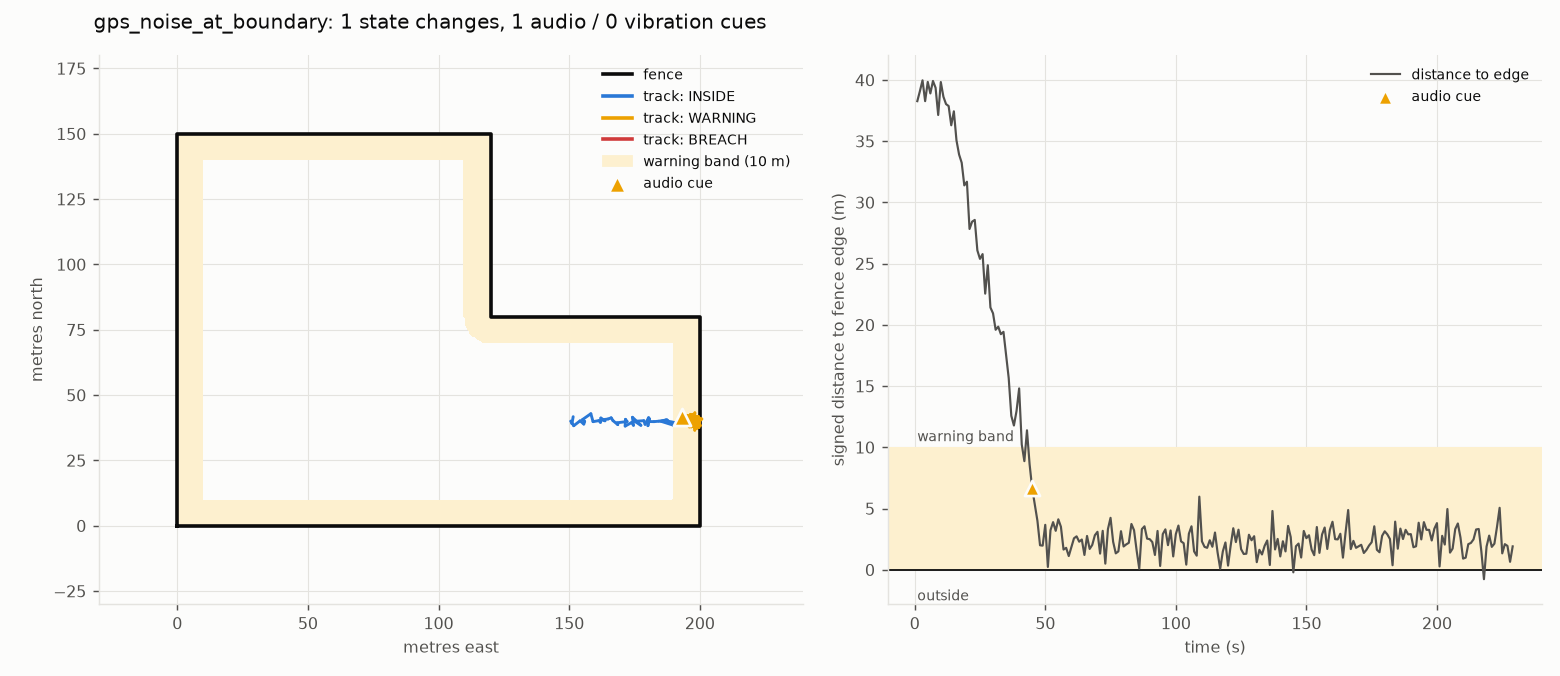
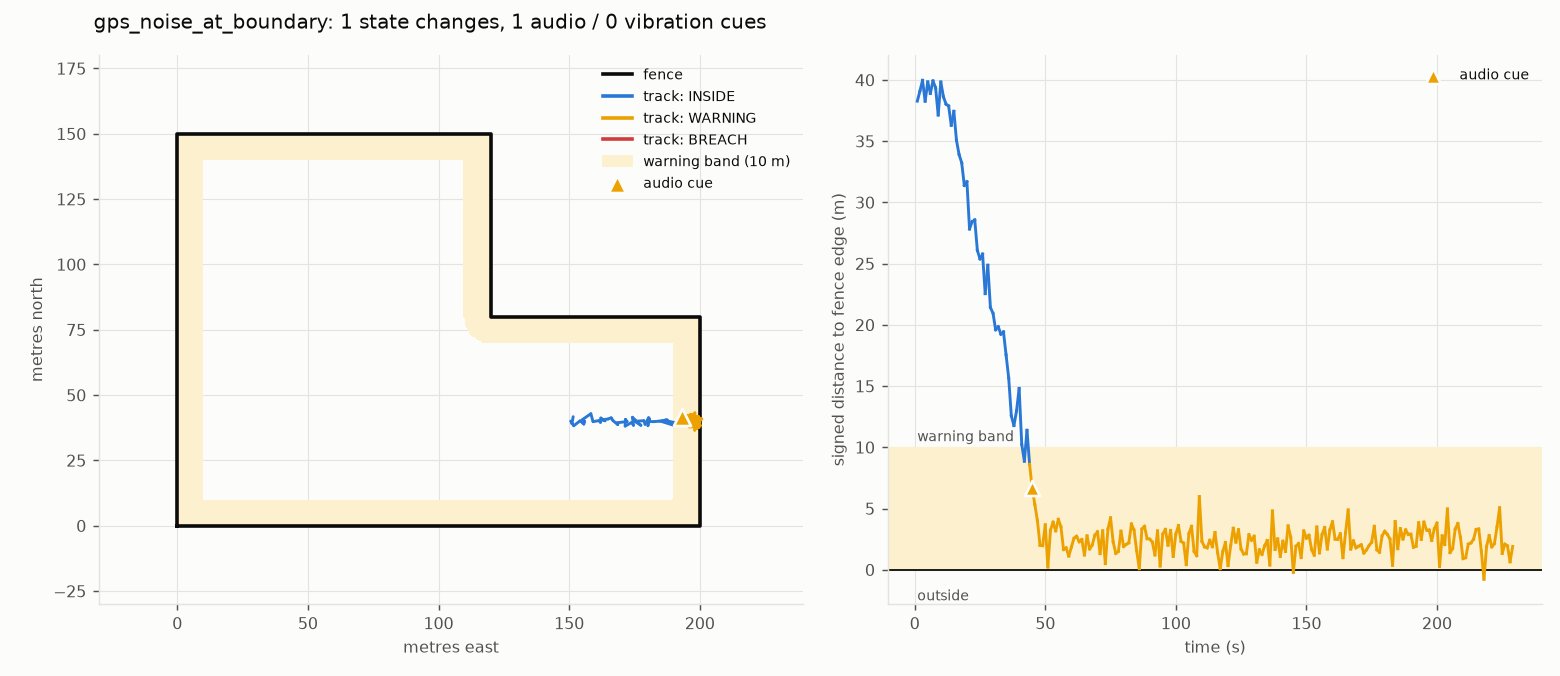
Fix GSV test line checksum; report unsupported NMEA count in summary

diff --git a/app/collar_app.c b/app/collar_app.c
@@ -147,10 +147,11 @@ bool collar_app_handle_line(collar_app_t *app, const char *line, telem_record_t 
 void collar_app_log_summary(const collar_app_t *app, const telem_service_t *ts)
 {
     hal_log("SUMMARY",
-            "gps_samples=%lu;nmea_ok=%lu;nmea_rejected=%lu;transitions=%lu;audio=%lu;"
+            "gps_samples=%lu;nmea_ok=%lu;nmea_rejected=%lu;nmea_unsupported=%lu;transitions=%lu;audio=%lu;"
             "vibration=%lu;telem_sent=%lu;telem_dropped=%lu;telem_queued=%u;final_state=%s",
             (unsigned long)app->gps_samples, (unsigned long)app->nmea_stats.accepted,
-            (unsigned long)app->nmea_stats.rejected, (unsigned long)app->transitions,
+            (unsigned long)app->nmea_stats.rejected,
+            (unsigned long)app->nmea_stats.unsupported, (unsigned long)app->transitions,
             (unsigned long)app->audio_cues, (unsigned long)app->vibration_cues,
             (unsigned long)ts->sent, (unsigned long)ts->ring.dropped,
             (unsigned)telem_count(&ts->ring), collar_state_name(app->sm.state));

diff --git a/wokwi/collar_app.c b/wokwi/collar_app.c
@@ -147,10 +147,11 @@ bool collar_app_handle_line(collar_app_t *app, const char *line, telem_record_t 
 void collar_app_log_summary(const collar_app_t *app, const telem_service_t *ts)
 {
     hal_log("SUMMARY",
-            "gps_samples=%lu;nmea_ok=%lu;nmea_rejected=%lu;transitions=%lu;audio=%lu;"
+            "gps_samples=%lu;nmea_ok=%lu;nmea_rejected=%lu;nmea_unsupported=%lu;transitions=%lu;audio=%lu;"
             "vibration=%lu;telem_sent=%lu;telem_dropped=%lu;telem_queued=%u;final_state=%s",
             (unsigned long)app->gps_samples, (unsigned long)app->nmea_stats.accepted,
-            (unsigned long)app->nmea_stats.rejected, (unsigned long)app->transitions,
+            (unsigned long)app->nmea_stats.rejected,
+            (unsigned long)app->nmea_stats.unsupported, (unsigned long)app->transitions,
             (unsigned long)app->audio_cues, (unsigned long)app->vibration_cues,
             (unsigned long)ts->sent, (unsigned long)ts->ring.dropped,
             (unsigned)telem_count(&ts->ring), collar_state_name(app->sm.state));

diff --git a/tools/gen_track.py b/tools/gen_track.py
@@ -179,7 +179,7 @@ def plan(name: str, rng: random.Random) -> list[Epoch]:
         epochs[40].extra_lines.append("#$%^&*() not nmea at all")
         epochs[60].extra_lines.append("$GPGGA," + "9" * 90 + "*00")                  # too long
         epochs[120].extra_lines.append("$GPGGA,001,4807.038,N,01131.000*")           # truncated
-        epochs[140].extra_lines.append("$GPGSV,3,1,11,03,03,111,00,04,15,270,00*74")   # unsupported
+        epochs[140].extra_lines.append(frame("GPGSV,3,1,11,03,03,111,00,04,15,270,00"))  # unsupported
         return epochs
 
     if name == "stationary_cow":

diff --git a/tests/test_scenarios.py b/tests/test_scenarios.py
@@ -121,6 +121,7 @@ def test_bad_gps(sim):
     assert r.cues() == 0, "corrupt or missing GPS must never trigger a cue"
     assert r.transitions() == []
     assert int(r.summary["nmea_rejected"]) > 0
+    assert r.summary["nmea_unsupported"] == "1"   # the $GPGSV line: ignored, not an error
     reasons = {d["reason"] for _, _, d in r.only("NMEA_REJECT")}
     assert {"checksum", "format", "too_long"} <= reasons
     assert len(r.only("NO_FIX")) == 30
